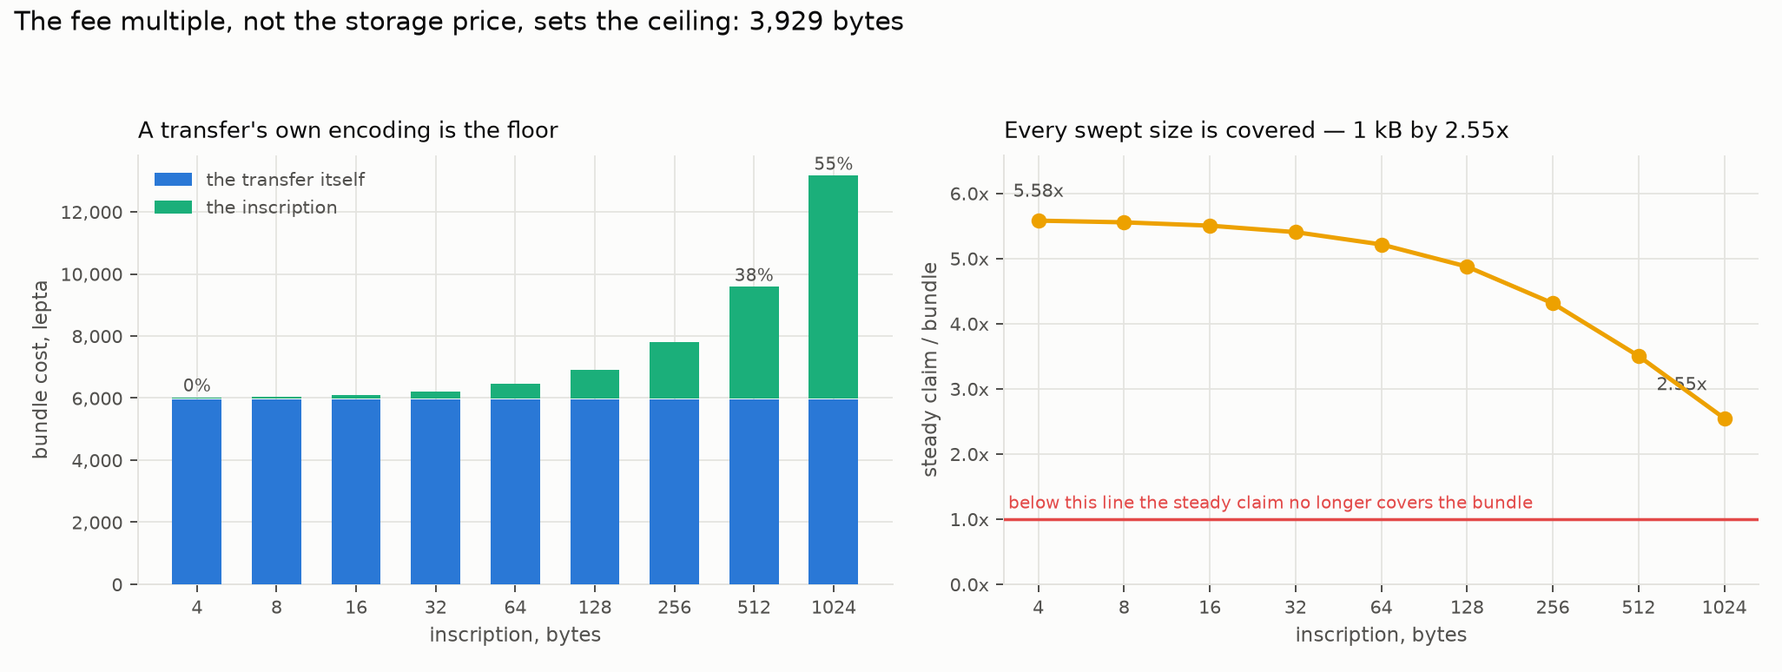
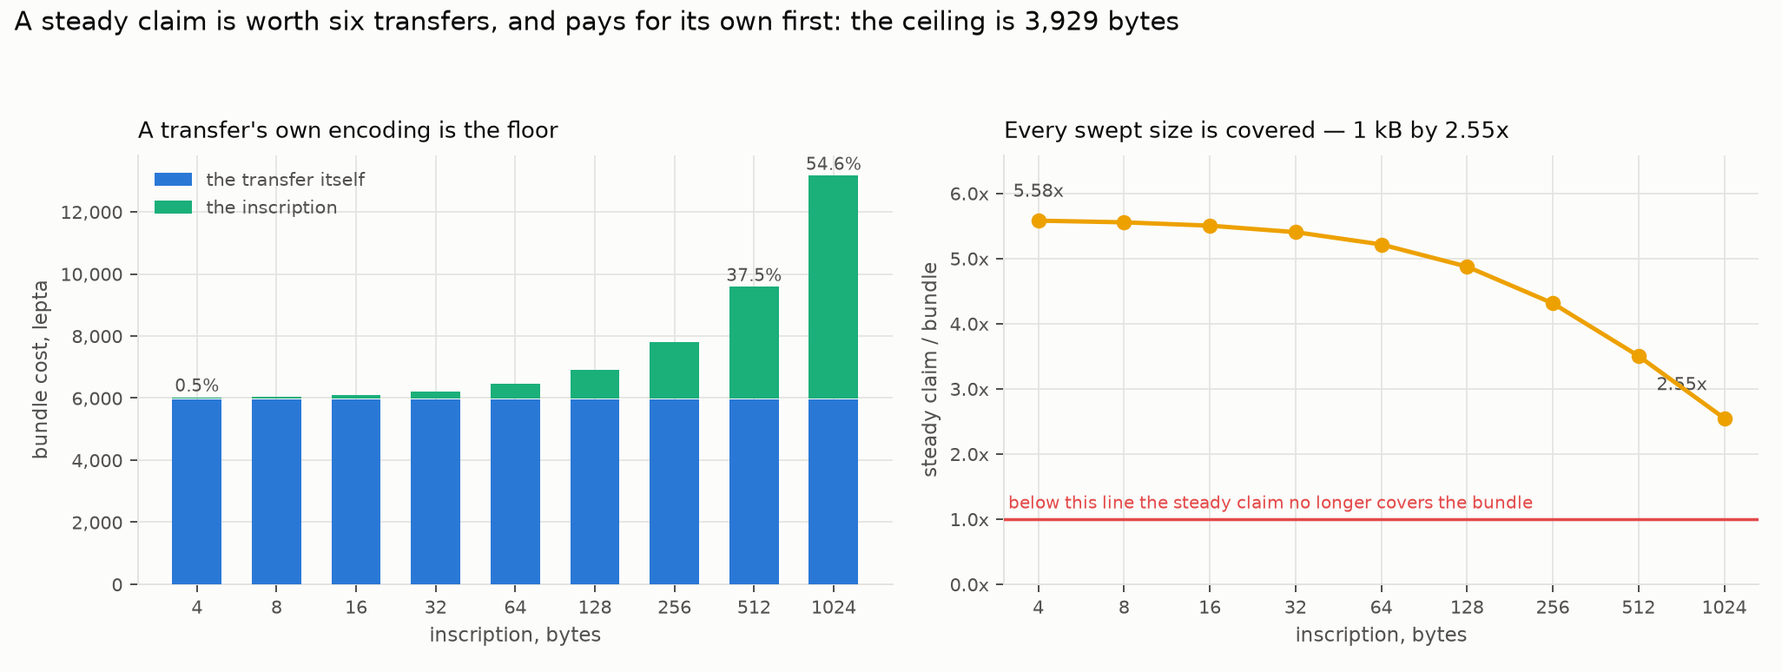
EmPoWering: finish the revert -- four files still carried the superseded reading
The previous commit reverted the fee model and the report but left the bad reading alive in
places that do not fail a gate: prose, docstrings and figure labels.

plots_strategies.py was the worst of them. Its elevation figure still read "The pool does not
drain -- fees more than replace what it pays" over a curve that now falls, and "Elevation is
not capped by the endowment / fees fund 268 more bonds an epoch" over one that is capped at
exactly the 50,000 the panel draws a line at. Reverted wholesale from 64b07fb.

targets.py still inverted a node target onto a SCHEDULE rather than a budget, which was the
one structural consequence of the bad reading. At the resting fee level epoch_refill is 7.23
LGO an epoch -- seven thousandths of one bond -- against the 250 bonds an epoch the endowment
funds at genesis, so fees are a rounding error on onboarding and the endowment is what sizes
it. Restored to genesis_pool = nodes * min_stake / conversion_efficiency, with the efficiencies
back to the measured 11.4% and 51.9%.

Also: inscription.py's module docstring, config.py's fee docstrings, and the bundle figure's
headline, all of which asserted that storage outweighs execution by a billion and that the
ceiling is price-independent at 1,035 bytes. The ceiling is 3,929 bytes and the general formula
is in the code; the price-independence held only in the limit the bad reading created.
TARGET-PARAMETERISATION.md is back to its original inversions with the inscription section
corrected.
[…]

diff --git a/tools/simulators/empowering/src/empowering_sim/targets.py b/tools/simulators/empowering/src/empowering_sim/targets.py
@@ -15,11 +15,10 @@ Each inversion is closed form. See `docs/TARGET-PARAMETERISATION.md` for the arg
 the arithmetic, with the constraints attached so a target that cannot be met says so rather
 than returning a number that quietly does not work.
 
-**The first inversion is not the one you would expect.** It used to map a node target onto the
-size of the endowment, on the premise that the pool is a miner's only source of first tokens.
-With fees priced correctly the pool holds its level indefinitely and `epoch_refill / min_stake`
-bonds an epoch are funded from fees alone, so no endowment is the binding constraint. A node
-target therefore buys **time**, and what it inverts onto is the schedule.
+The first inversion rests on the endowment being what funds onboarding, and it is: at the
+resting fee level `epoch_refill` is 7.23 LGO an epoch, which is 0.007 of a single bond, against
+the 250 bonds an epoch the endowment itself funds at genesis. Fees are a rounding error on this
+question during bootstrap.
 """
 from __future__ import annotations
 
@@ -33,48 +32,36 @@ from .config import Config
 # paying for itself and the mechanism does not onboard anyone.
 SPEC_FEE_CEILING_FRACTION = 1.157e-10
 
-# Measured by the elevation study. Most of what the pool pays lands in balances that never
-# reach the bond, and the difference between these two is a behaviour the specification does
-# not address: whether a miner that has crossed the bond keeps mining.
-CONVERSION_RETIRING = 0.191
-CONVERSION_PERSISTENT = 0.089
+# Measured by the elevation study at 400 epochs and 100 arrivals an epoch, as fractions of the
+# `genesis_pool / min_stake` ceiling. Most of what the pool pays lands in balances that never
+# reach the bond, and the gap between these two is a behaviour the specification does not
+# address: whether a miner that has crossed the bond keeps mining. It is worth 4.5x.
+CONVERSION_RETIRING = 0.519
+CONVERSION_PERSISTENT = 0.114
 
 
 @dataclass(frozen=True)
 class Onboarding:
     nodes: int
-    epochs_retiring: float
-    epochs_persistent: float
-    bonds_per_epoch_funded: float
-
-    @property
-    def years_retiring(self) -> float:
-        return self._years(self.epochs_retiring)
-
-    @property
-    def years_persistent(self) -> float:
-        return self._years(self.epochs_persistent)
-
-    _epochs_per_year: float = 48.667
-
-    def _years(self, e: float) -> float:
-        return e / self._epochs_per_year
+    pool_retiring_lgo: float
+    pool_persistent_lgo: float
+    ceiling_at_current_pool: float
 
 
-def onboarding_schedule(cfg: Config, nodes_to_onboard: int) -> Onboarding:
-    """| ``epochs = nodes * min_stake / (conversion_efficiency * epoch_refill)``
+def endowment_for(cfg: Config, nodes_to_onboard: int) -> Onboarding:
+    """| ``genesis_pool = nodes_to_onboard * min_stake / conversion_efficiency``
 
-    What a node target costs in time. Both conversion efficiencies are returned because the
-    switch between them is unspecified and worth a factor of two.
+    What a node target costs, in tokens. Both conversion efficiencies are returned because the
+    switch between them is unspecified and worth a factor of four and a half -- which is the
+    single strongest argument for parameterising this way, since the current form hides that
+    behaviour inside a pool size chosen as a round fraction of supply.
     """
-    refill = economics.epoch_refill(cfg)
     need = nodes_to_onboard * cfg.min_stake
     return Onboarding(
         nodes=nodes_to_onboard,
-        epochs_retiring=need / (CONVERSION_RETIRING * refill),
-        epochs_persistent=need / (CONVERSION_PERSISTENT * refill),
-        bonds_per_epoch_funded=refill / cfg.min_stake,
-        _epochs_per_year=cfg.epochs_per_year,
+        pool_retiring_lgo=cfg.to_lgo(need / CONVERSION_RETIRING),
+        pool_persistent_lgo=cfg.to_lgo(need / CONVERSION_PERSISTENT),
+        ceiling_at_current_pool=cfg.genesis_pool / cfg.min_stake,
     )
 
 
@@ -121,11 +108,10 @@ def pow_share_for(cfg: Config, inscription_bytes: int) -> dict:
     The share of fees the pool must divert for a steady claim to cover a transfer carrying an
     inscription of the stated size.
 
-    This inversion is tightly constrained, which is easy to miss. The refill is a share of
-    storage-priced fees and so is the bundle, so the storage price cancels and the reachable
-    inscription is capped at `inscription.max_inscription_bytes` -- 1,035 bytes -- whatever
-    storage costs. Choosing a target inscription IS choosing `pow_share`, and choosing 1 kB
-    pins it within a percent of the 10% already specified.
+    This inversion is tightly constrained, which is easy to miss. The reachable inscription is
+    capped at `inscription.max_inscription_bytes` -- 3,929 bytes at the resting prices -- so
+    choosing a target above that is not a choice about `pow_share` at all, and the function
+    reports it as unreachable rather than returning a share that cannot deliver it.
     """
     claims = cfg.target_claims_per_block * cfg.blocks_per_epoch
     fee_revenue = cfg.blocks_per_epoch * cfg.txs_per_block * cfg.avg_tx_fee
@@ -156,5 +142,5 @@ def affordable(cfg: Config) -> dict:
         spec_ceiling_lgo=ceiling,
         ratio=fee / ceiling,
         affordable=fee <= ceiling,
-        max_storage_price_lgo=inscription.affordable_storage_price(cfg),
+        max_storage_price_lepta=inscription.affordable_storage_price(cfg),
     )

diff --git a/tools/simulators/empowering/src/empowering_sim/inscription.py b/tools/simulators/empowering/src/empowering_sim/inscription.py
@@ -5,30 +5,28 @@ useful: a transfer carrying a small inscription. This module prices that bundle 
 questions of it -- can the fee-funded steady state cover it, and can a miner afford to claim
 at all.
 
-**Fees have two prices, not one.** Execution gas is charged per Operation and rests at 7 lepta;
-permanent storage gas is charged on the encoded size of the whole signed transaction
-(`mantle:71`, `mantle:148`) and `storage-markets.md:126` puts it at **one LGO per stored
-byte** -- a billion times more. Storage therefore dominates every fee, and a transaction costs,
-to three figures, its byte count in LGO.
+**Fees have two prices, not one.** Execution gas is charged per Operation; permanent storage
+gas is charged on the encoded size of the whole signed transaction, one gas per byte
+(`mantle:71`, `mantle:148`). They discover their prices independently, so they are modelled
+separately -- but both floor at one lepton and an idle market settles at 7, which is why
+`mantle:1858` can state a claim's fee as 6,664 lepta: that is `(306 + 646) * 7`, the claim's
+bytes and its gas at the same resting level.
 
-That price is not a constant. The same passage calls its precise value "not critical", notes
-the market "converges autonomously to the market-clearing price" from any start, and leaves
-that clearing price undetermined. So `P_STR` is swept here rather than assumed.
+`storage-markets.md:124-126` reads "1 LGO per permanently stored byte". That is superseded --
+it predates the denomination being fixed, and *Logos Token: Units and Precision*, which
+`mantle:2119` defers to by name, prices storage in lepta per gas unit with a one-lepton floor.
+See `CONTRADICTIONS.md` 4.8.
 
-**The result that makes the sweep worth running.** Ask what inscription the steady state can
-afford. The refill is a share of the fees the network pays, and those fees are storage-priced;
-so is the bundle. The price appears on both sides and cancels:
+**What the sweep is for.** Ask what inscription the fee-funded steady state can afford. A
+steady claim is worth `pow_share * txs_per_block / target_claims_per_block` ordinary
+transactions' fees -- six, at the settled parameters -- and has to pay for its own transfer out
+of those six before it can inscribe anything. That is where most of the bound comes from, and
+it puts the ceiling at **3,929 bytes** at the resting prices. Every size this module sweeps
+clears it, 1 kB by 2.55x.
 
-| ``max_inscription_bytes = (pow_share * txs_per_block / target_claims_per_block - 1) * transfer_tx_bytes`` |
-| --- |
-
-At the settled parameters that is ``(0.1 * 600 / 10 - 1) * 207 = 1035`` bytes, **whatever
-storage costs**. The steady claim is worth six transfers' fees; one pays for its own transfer
-and five are left to inscribe with.
-
-So the ceiling is set by the fee multiple alone, and a 1 kB target sits 1% inside it. What the
-storage price does control is the other question -- whether a miner can afford the claim
-transaction during bootstrap, when the reward comes from the pool and not from fees.
+The storage price does not decide that, but it does decide affordability: a claim stops
+covering its own fee once storage passes 3,782,362 lepta a byte, 540,000 times its resting
+level.
 """
 from __future__ import annotations
 

diff --git a/tools/simulators/empowering/src/empowering_sim/plots_strategies.py b/tools/simulators/empowering/src/empowering_sim/plots_strategies.py
@@ -243,10 +243,7 @@ def provider_ramp(cfg, out: Path, cohort_sizes=(16, 32, 64, 100), epochs: int = 
 def elevation_and_depletion(cfg, out: Path, epochs: int = 400) -> Path:
     """What the pool spends, and what that spending buys.
 
-    Left: the pool holds its level. Fees replace slightly more than the pool pays out, so it
-    drifts UP rather than draining -- the depletion horizon this study reported before the
-    storage market was priced separately was an artefact of understating the fee. The three
-    curves are three miner populations
+    Left: the pool drains on a fixed clock. The three curves are three miner populations
     differing fiftyfold and they lie on top of one another, because the difficulty controller
     holds the claim count at target -- so the payout is a property of the POOL and not of
     demand. Nothing anyone does makes it drain faster or slower.
@@ -267,10 +264,10 @@ def elevation_and_depletion(cfg, out: Path, epochs: int = 400) -> Path:
                      color=list(SERIES.values())[i], linewidth=2.4 - i * 0.6, zorder=3 + i,
                      label=f"{rate} miners/epoch", solid_capstyle="round")
     axes[0].set_xlabel("epoch", color=INK_2, fontsize=9.5)
-    axes[0].set_ylabel("pool level, % of genesis", color=INK_2, fontsize=9.5)
+    axes[0].set_ylabel("pool remaining, % of genesis", color=INK_2, fontsize=9.5)
     axes[0].legend(frameon=False, fontsize=9, ncol=3, loc="upper center",
                    bbox_to_anchor=(0.5, -0.22), labelcolor=INK_2)
-    _style(axes[0], "The pool does not drain — fees more than replace what it pays",
+    _style(axes[0], "The pool drains on a fixed clock",
            "three populations, fiftyfold apart — one curve")
 
     for i, retire in enumerate((False, True)):
@@ -283,15 +280,15 @@ def elevation_and_depletion(cfg, out: Path, epochs: int = 400) -> Path:
     axes[1].axhline(cfg.genesis_pool / cfg.min_stake, color="#e34948", linewidth=1.4,
                     linestyle=(0, (2, 2)), zorder=4)
     axes[1].text(0, cfg.genesis_pool / cfg.min_stake * 0.94,
-                 "  50,000 — what the endowment alone funds",
+                 "  50,000 — the pool over the bond, the arithmetic ceiling",
                  color="#e34948", fontsize=8, va="top", ha="left")
     axes[1].set_xlabel("epoch", color=INK_2, fontsize=9.5)
     axes[1].set_ylabel("miners elevated to the bond", color=INK_2, fontsize=9.5)
     axes[1].legend(frameon=False, fontsize=9, ncol=2, loc="upper center",
                    bbox_to_anchor=(0.5, -0.22), labelcolor=INK_2)
     _thousands(axes[1], "y")
-    _style(axes[1], "Elevation is not capped by the endowment",
-           "fees fund 268 more bonds an epoch, indefinitely")
+    _style(axes[1], "What the same spend buys",
+           "identical money, four times the elevations")
 
     fig.tight_layout(rect=(0, 0.10, 1, 0.88), w_pad=4.0)
     p = out / "elevation_depletion.png"

diff --git a/tools/simulators/empowering/src/empowering_sim/validate.py b/tools/simulators/empowering/src/empowering_sim/validate.py
@@ -780,10 +780,16 @@ def gate_targets(cfg: Config) -> None:
     print("\nParameterising by outcome: the three inversions")
     from . import targets as tg                               # noqa: PLC0415
 
-    o = tg.onboarding_schedule(cfg, 10_000)
-    check("the schedule is linear in the node target",
-          round(tg.onboarding_schedule(cfg, 20_000).epochs_retiring / o.epochs_retiring, 6),
-          2.0)
+    o = tg.endowment_for(cfg, 10_000)
+    check("the endowment a 10,000-node target needs, if bonded miners retire",
+          round(o.pool_retiring_lgo / 1e6, 2), 19.27, note="millions of LGO")
+    check("and if they do not", round(o.pool_persistent_lgo / 1e6, 2), 87.72,
+          note="an unspecified behaviour, worth 4.5x the budget")
+    check("the inversion is linear in the node target",
+          round(tg.endowment_for(cfg, 20_000).pool_retiring_lgo / o.pool_retiring_lgo, 6), 2.0)
+    check("and it round-trips against the measured elevation study",
+          round(tg.endowment_for(cfg, 5_682).pool_persistent_lgo / cfg.to_lgo(cfg.genesis_pool),
+                2), 1.0, note="5,682 elevated is 11.4% of the 50,000 ceiling")
     check("the current rate corresponds to this bootstrap period",
           tg.distribution_rate_for(cfg, 9.4)["denominator"], 199,
           note="against the specified 1/200")
@@ -793,6 +799,19 @@ def gate_targets(cfg: Config) -> None:
     check("a two-year bootstrap is not drain-safe",
           tg.distribution_rate_for(cfg, 2.0)["drain_safe"], False)
     check("a five-year one is", tg.distribution_rate_for(cfg, 4.85)["drain_safe"], True)
+    # The elevation study's published table, pinned to the configuration that produced it --
+    # the numbers move by a fifth between 400 and 600 epochs, and by a tenth between 50 and 100
+    # arrivals an epoch, so the report's figures are only meaningful with the run attached.
+    from . import elevation as _el                            # noqa: PLC0415
+
+    _ceiling = cfg.genesis_pool / cfg.min_stake
+    for _retire, _want in ((False, 5_682), (True, 25_934)):
+        _r = _el.run(cfg, _el.ElevationConfig(miners_per_epoch=100, epochs=400,
+                                              retire_on_bond=_retire))
+        check(f"elevated over 400 epochs, bonded miners "
+              f"{'retire' if _retire else 'keep mining'}", _r.elevated, _want,
+              note=f"{_r.elevated / _ceiling:.1%} of the {_ceiling:,.0f} ceiling")
+
     check("past the ceiling an inscription target is unreachable at any share",
           tg.pow_share_for(cfg, 5_000)["reachable"], False,
           note="the ceiling is 3,929 bytes at the resting prices")

diff --git a/tools/simulators/empowering/src/empowering_sim/config.py b/tools/simulators/empowering/src/empowering_sim/config.py
@@ -164,8 +164,8 @@ class Config:
         different things and priced independently: execution gas per Operation, permanent
         storage gas on the encoded size of the WHOLE signed transaction.
 
-        Storage dominates so completely that a transaction's fee is, to three figures, its
-        byte count in LGO.
+        The two markets rest at the same level, so a transaction's fee is its bytes and its
+        gas at that one level -- which is how `mantle:1858` gets 6,664 lepta for a claim.
         """
         return nbytes * self.storage_price + gas * self.price_resting
 
@@ -183,8 +183,8 @@ class Config:
         """A transfer carrying an inscription of a given size -- the self-sustaining target.
 
         The inscription's bytes ride on the same signed transaction, so they are charged at the
-        storage price alongside the transfer's own encoding. That encoding is the floor: even a
-        four-byte inscription costs a transfer's worth of storage before it costs its own.
+        storage price alongside the transfer's own encoding. That encoding is the floor: a
+        four-byte inscription is under half a percent of what its own transaction costs.
         """
         return self.tx_fee(self.transfer_tx_bytes + inscription_bytes,
                            self.transfer_tx_gas + self.inscribe_gas)

diff --git a/tools/simulators/empowering/src/empowering_sim/plots_inscription.py b/tools/simulators/empowering/src/empowering_sim/plots_inscription.py
@@ -70,7 +70,7 @@ def bundle_cost(cfg: Config, out: Path) -> Path:
     for i, r in enumerate(rows):
         if r.inscription_bytes in (4, 512, 1024):
             a0.text(i, float(r.bundle) + max(insc.max(), floor) * 0.03,
-                    f"{r.inscription_share:.0%}",
+                    f"{r.inscription_share:.1%}",
                     ha="center", fontsize=8, color=INK_2)
 
     margin = np.array([r.margin for r in rows])
@@ -90,8 +90,8 @@ def bundle_cost(cfg: Config, out: Path) -> Path:
                     xytext=(dx, dy), ha=ha, fontsize=8.5, color=INK_2)
 
     f.suptitle(
-        f"The fee multiple, not the storage price, sets the ceiling: "
-        f"{inscription.max_inscription_bytes(cfg):,.0f} bytes",
+        f"A steady claim is worth six transfers, and pays for its own first: "
+        f"the ceiling is {inscription.max_inscription_bytes(cfg):,.0f} bytes",
         color=INK, fontsize=12, x=0.008, ha="left", y=0.985)
     f.tight_layout(rect=(0, 0, 1, 0.93))
     f.savefig(out, dpi=180, facecolor=SURFACE)

diff --git a/tools/simulators/empowering/docs/TARGET-PARAMETERISATION.md b/tools/simulators/empowering/docs/TARGET-PARAMETERISATION.md
@@ -1,11 +1,11 @@
 # Parameterising by outcome instead of by rate
 
-> **Revised after the fee correction.** This note was first written against a fee model that
-> applied one price to both gas markets and so understated every fee by essentially its whole
-> storage component. Two of the three inversions moved, and the first one changed *shape*
-> rather than just value: the pool turns out to be self-sustaining, so a node target no longer
-> sizes an endowment. The corrected version is below; the conclusion — that the
-> reparameterisation is sound and worth doing — survives intact, and is if anything stronger.
+> **Restored.** An intermediate revision of this note was written against a mistaken reading of
+> the storage price — one LGO per stored byte rather than one lepton — which made the pool look
+> self-sustaining and turned the first inversion into a schedule rather than a budget. That
+> reading is superseded (`CONTRADICTIONS.md` 4.8) and this note is back to its original form,
+> with the inscription section corrected for the general ceiling formula. The conclusion never
+> depended on the reading: the reparameterisation is sound and worth doing.
 
 A design note on the proposal to make the mechanism's controlling values **how many nodes we want to onboard** and **how long we want that to take**, with everything else derived.
 
@@ -19,27 +19,27 @@ Three outcomes map one-to-one onto three parameters. Each is a closed form — n
 
 | you state | it determines | how |
 | --- | --- | --- |
-| `nodes_to_onboard` | the **time** it takes, not the endowment | `epochs = nodes_to_onboard * min_stake / (conversion_efficiency * epoch_refill)` |
+| `nodes_to_onboard` | `genesis_pool` | `genesis_pool = nodes_to_onboard * min_stake / conversion_efficiency` |
 | `bootstrap_years` | `distribution_rate` | `distribution_rate = 1 - remaining_fraction ** (1 / bootstrap_epochs)` |
 | `steady_reward` (a transaction bundle) | `pow_share` | `pow_share = bundle * target_claims_per_block / (txs_per_block * avg_tx_fee)` |
 
-The second follows from the pool's decay being geometric at exactly `distribution_rate`; the third from the fee-funded steady state being the refill spread over an epoch's claims. The first used to follow from the pool being the only source of a miner's first tokens — and that is the premise that broke.
+The first follows from the pool being the only source of a miner's first tokens — at the resting fee level `epoch_refill` is 7.23 LGO an epoch, seven thousandths of a single bond, against the 250 bonds an epoch the endowment funds at genesis. The second follows from the pool's decay being geometric at exactly `distribution_rate`; the third from the fee-funded steady state being the refill spread over an epoch's claims.
 
-Checked against the current settings: `distribution_rate = 1/200` corresponds to 90% of the endowment spent in 9.4 years, and the elevation study measures 23 bonds an epoch without retirement and 50 with.
+Checked against the current settings: `genesis_pool` of 50M LGO onboards 25,934 nodes at the good conversion efficiency and 5,682 at the bad one, which is what the elevation study measures. `distribution_rate = 1/200` corresponds to 90% of the pool spent in 9.4 years.
 
-## What changed: a node target buys time, not budget
+## What it exposes: conversion efficiency
 
-The first inversion assumed the endowment is the only source of a miner's first tokens, so that `nodes_to_onboard` sized `genesis_pool`. With fees priced correctly that is false. The refill runs slightly ahead of what the pool pays, the pool holds its level indefinitely, and `epoch_refill / min_stake` = **268 bonds an epoch** are funded from fees alone, forever. There is no endowment large enough to be the binding constraint, because the endowment is not being consumed.
+The first inversion has a term the current parameterisation never asks about. The pool does not convert into bonds cleanly — most of what it pays out lands in balances that never reach the threshold. The elevation study measures **11.4%** of the ceiling reached when bonded miners keep mining and **51.9%** when they retire.
 
-So a node target does not fix a budget. It fixes a **duration**, and the parameter it inverts onto is the schedule rather than the pool:
+So the budget for a stated onboarding target is not one number but a range:
 
-| nodes to onboard | bonded miners retire (50/epoch) | bonded miners keep mining (23/epoch) |
+| nodes to onboard | at 51.9% | at 11.4% |
 | --- | --- | --- |
-| 1,000 | 20 epochs (0.4 yr) | 43 epochs (0.9 yr) |
-| 10,000 | 200 epochs (4.1 yr) | 431 epochs (8.9 yr) |
-| 50,000 | 1,001 epochs (20.6 yr) | 2,155 epochs (44.3 yr) |
+| 1,000 | 1.9M LGO | 8.8M LGO |
+| 10,000 | 19.3M LGO | 87.7M LGO |
+| 50,000 | 96.3M LGO | 438.6M LGO |
 
-**This is still the strongest argument for the reparameterisation, and now for a sharper reason.** The rate-based parameters cannot express an onboarding goal at all: `genesis_pool` sets a starting level that the mechanism then holds rather than spends. Stating the target forces the question of what actually limits the rate — and the answer is conversion efficiency, which is **8.9%** when bonded miners keep mining and **19.1%** when they retire. Nine-tenths of what the pool pays out lands in balances that never reach the bond. That is an unspecified behaviour worth a factor of two in the schedule, and nothing in the current parameterisation asks about it.
+**This is the strongest argument for the reparameterisation.** Under the current scheme you set `genesis_pool = 0.5%` of supply and discover the outcome afterwards; under the proposed one you state the outcome and are immediately asked what the conversion efficiency is — an unspecified behaviour worth a factor of four and a half in the budget. At 10,000 nodes it is the difference between 0.19% and 0.88% of supply.
 
 ## What it constrains: a floor under `bootstrap_years`
 
@@ -56,22 +56,22 @@ A shorter bootstrap needs `target_claims_per_block` raised in step, and that thi
 
 ## What it says about `pow_share`
 
-Setting the steady reward to a transaction bundle inverts cleanly, and the answer is that the current share is about four times larger than the stated goal needs.
+Setting the steady reward to a transaction bundle inverts cleanly:
 
 | inscription | `pow_share` needed | against the current 10% |
 | --- | --- | --- |
-| 256 B | **3.73%** | 0.37× |
-| 512 B | 5.79% | 0.58× |
-| 1024 B | **9.91%** | 0.99× |
+| 256 B | **2.32%** | 0.23× |
+| 512 B | 2.85% | 0.29× |
+| 1024 B | 3.93% | 0.39× |
 
-The current 10% share is, to within a percent, *exactly* what a 1 kB bundle costs — which is the same fact the strategy report's §10 states from the other direction: the ceiling on the inscription is
+So the current share is about four times larger than the stated goal needs, and the target is nowhere near its ceiling. That ceiling is worth stating alongside, because it is what makes the inversion well-posed at all:
 
-| `max_inscription_bytes = (pow_share * txs_per_block / target_claims_per_block - 1) * transfer_tx_bytes` |
+| `max_inscription_bytes = (fee_multiple * avg_tx_fee - transfer_tx_bytes * storage_price - (transfer_tx_gas + inscribe_gas) * price_resting) / storage_price` |
 | --- |
 
-= **1,035 bytes**, and it is independent of the storage price because the price appears on both sides and cancels. So this inversion is not free to choose: picking a target inscription *is* picking `pow_share`, and picking 1 kB pins it at essentially the value it already has, with 1% of headroom. **256 bytes at a 3.73% share is the version with real margin.**
+where `fee_multiple = pow_share * txs_per_block / target_claims_per_block` is how many ordinary transactions' fees one steady claim is worth — six, at the settled parameters — out of which the claim must first pay for its own transfer. That puts the ceiling at **3,929 bytes**, so every size in the study's sweep is reachable and 1 kB clears by 2.55×.
 
-One caveat: this holds at one traffic level. The fee-funded steady state scales with `txs_per_block`, so a share that exactly covers a bundle at 600 transactions covers ten bundles at 6,000. If the goal is that a claim covers a bundle *whatever the traffic*, the reward has to be **defined** as the bundle and the pool left to absorb the difference — which is a mechanism change rather than a re-parameterisation, and the only version that delivers the goal as stated.
+One caveat: this holds at one traffic level. The fee-funded steady state scales with `txs_per_block`, so a share that exactly covers a bundle at 600 transactions covers ten bundles at 6,000. If the goal is that a claim covers a bundle *whatever the traffic*, the reward has to be **defined** as the bundle and the pool left to absorb the difference — a mechanism change rather than a re-parameterisation, and the only version that delivers the goal as stated.
 
 ## What does not survive: the difficulty as the onboarding controller
 
@@ -89,7 +89,7 @@ Little, and most of it is presentation:
 
 1. **A `targets.py` that inverts the three closed forms.** Trivial; they are the formulas above. Not yet built.
 2. **The config takes targets and derives the parameters.** A presentation change, not a model change — the simulator computes the same things afterwards.
-3. **Conversion efficiency becomes an explicit input**, because the first inversion cannot be stated without it. This is the substantive part: it forces a currently-invisible behaviour — worth a factor of two in the onboarding schedule — into the parameter set.
+3. **Conversion efficiency becomes an explicit input**, because the first inversion cannot be stated without it. This is the substantive part: it forces a currently-invisible behaviour — worth a factor of four and a half in the budget — into the parameter set.
 4. **Only if the steady-state goal is to hold at every traffic level**: the reward gains a floor at the bundle. That one is a mechanism change and should be taken on its own merits.
 
 ## Is it easier to reason about?
